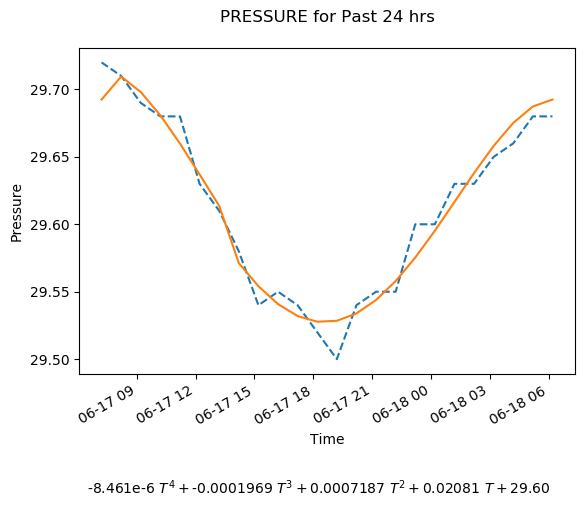
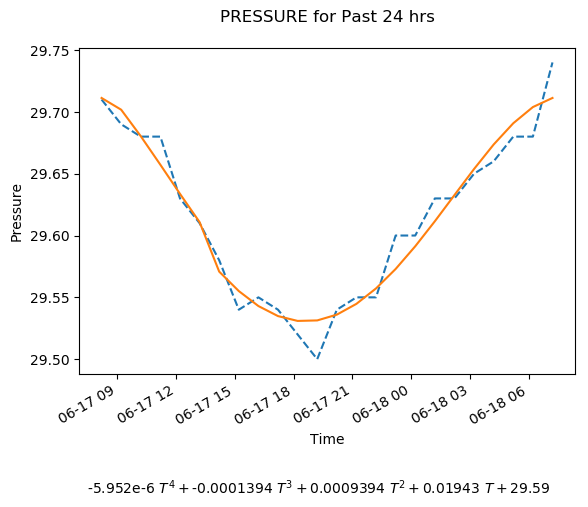
ff

diff --git a/NET/weather.html b/NET/weather.html
@@ -79,14 +79,14 @@ if (i<10)
 <h1><em><font color="darkblue">Weather at Carbondale</font></em></h1>
 <div id="txt"></div>
 <center class="big">Temperature: 
-78.1 
+77.0 
 °
 </center>
 <table><tr>
 <td align="left" class="x">
-<i>Current Weather: </i><img height="0" width="50"><b>Overcast</b>
+<i>Current Weather: </i><img height="0" width="50"><b>Mostly Cloudy</b>
 </td>
-<td><img src="WeathIcons/ovc.jpg"></td>
+<td><img src="WeathIcons/"></td>
 </tr></table>
 <table style="margin-left: auto;margin-top: 5%;margin-right:auto">
 <tr>
@@ -94,21 +94,21 @@ if (i<10)
 <tr><td align="left" class="big">Date: 
 &#160;Jun 18</td></tr>
 <tr><td align="left" class="big">Time: 
-&#160;06:08:02</td></tr>
+&#160;07:08:02</td></tr>
 <tr><td align="left" class="big">Wind: 
-&#160;West at 10.4 MPH (9 KT)</td></tr>
+&#160;Southwest at 4.6 MPH (4 KT)</td></tr>
 <tr><td align="left" class="big">Visibility: 
 &#160;</td></tr>
 <tr><td align="left" class="big">Temperature: 
-&#160;78.1 F.</td></tr>
+&#160;77.0 F.</td></tr>
 <tr><td align="left" class="big">Dewpoint: 
 &#160;73.9 F.</td></tr>
 <tr><td align="left" class="big">Relative Humidity: 
-&#160;87%</td></tr>
+&#160;90%</td></tr>
 <tr><td align="left" class="big">Pressure: 
-&#160;29.68 inches</td></tr>
+&#160;29.74 inches</td></tr>
 <tr><td align="left" class="big">Heat Index: 
-&#160;81</td></tr>
+&#160;78</td></tr>
 <tr><td align="left" class="big">Wind Chill: 
 &#160;</td></tr>
 <tr><td align="left" class="big">Sunrise: 
@@ -119,8 +119,8 @@ if (i<10)
 <td align="left" class="big">
 <b>Twenty-Four Hour Summary</b><p></p>
 <dl>
-<dt align="center">Temperature: μ = 80.30, 
-σ = 6.61</dt>
+<dt align="center">Temperature: μ = 80.88, 
+σ = 5.59</dt>
 <p></p>
 <dt align="center">Pressure: μ = 29.61,
 σ = 0.06</dt>

diff --git a/NET/DewPoint.html b/NET/DewPoint.html
@@ -39,7 +39,7 @@ black;width:35%;margin-left:auto;margin-right:auto;margin-bottom:5em
 
 <h2>Current</h2>
 
-<div id='c'><strong>Temp</strong> 78.1 F. <strong>Dew Point</strong> 73.9 F.</div>
+<div id='c'><strong>Temp</strong> 77.0 F. <strong>Dew Point</strong> 73.9 F.</div>
 
 
 <p><p/><br/><p/></p>
@@ -1546,6 +1546,11 @@ black;width:35%;margin-left:auto;margin-right:auto;margin-bottom:5em
 <tr>
 <td style="text-align:center;"> Thu Jun 18 06:08:04 2026 </td>
 <td style="text-align:center;"> 78.1 F. </td>
+<td style="text-align:center;"> 73.9 F.</td>
+</tr>
+<tr>
+<td style="text-align:center;"> Thu Jun 18 07:08:04 2026 </td>
+<td style="text-align:center;"> 77.0 F. </td>
 <td style="text-align:center;"> 73.9 F.</td>
 </tr>
 </tbody>

diff --git a/NET/DewPoint.md b/NET/DewPoint.md
@@ -25,7 +25,7 @@ black;width:35%;margin-left:auto;margin-right:auto;margin-bottom:5em
 <p/><br/><p/>
 
 ## Current
-<div id='c'><strong>Temp</strong> 78.1 F. <strong>Dew Point</strong> 73.9 F.</div>
+<div id='c'><strong>Temp</strong> 77.0 F. <strong>Dew Point</strong> 73.9 F.</div>
 
 <p/><br/><p/>
 
@@ -334,3 +334,4 @@ black;width:35%;margin-left:auto;margin-right:auto;margin-bottom:5em
 | Thu Jun 18 04:08:05 2026 | 80.1 F. | 73.9 F.|
 | Thu Jun 18 05:08:05 2026 | 78.1 F. | 73.9 F.|
 | Thu Jun 18 06:08:04 2026 | 78.1 F. | 73.9 F.|
+| Thu Jun 18 07:08:04 2026 | 77.0 F. | 73.9 F.|